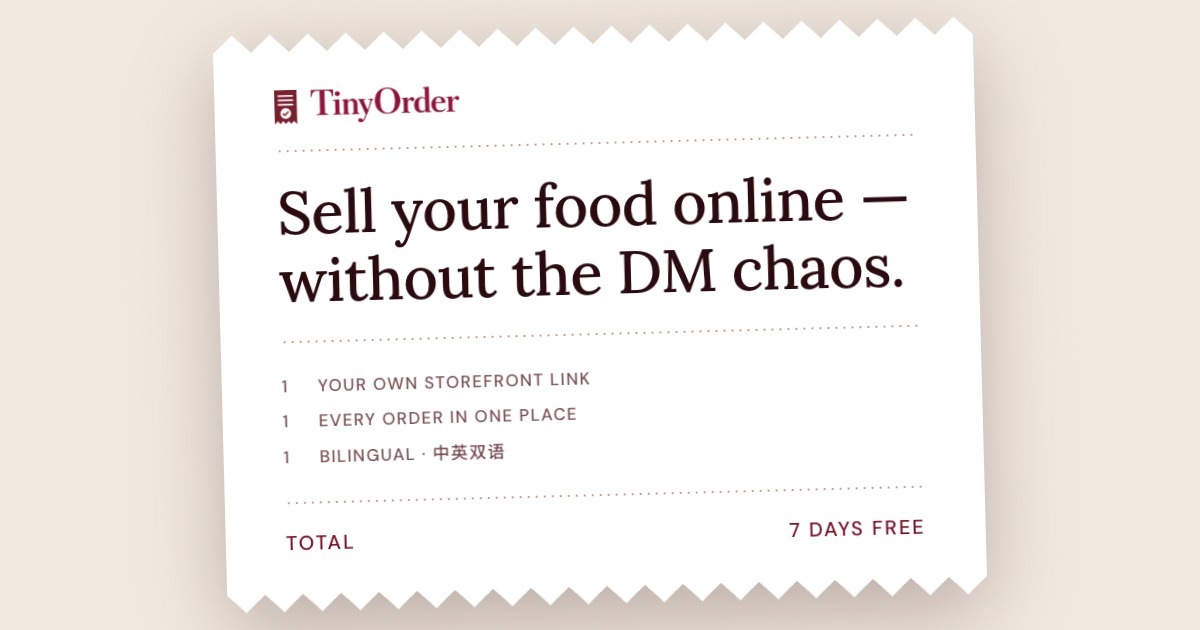
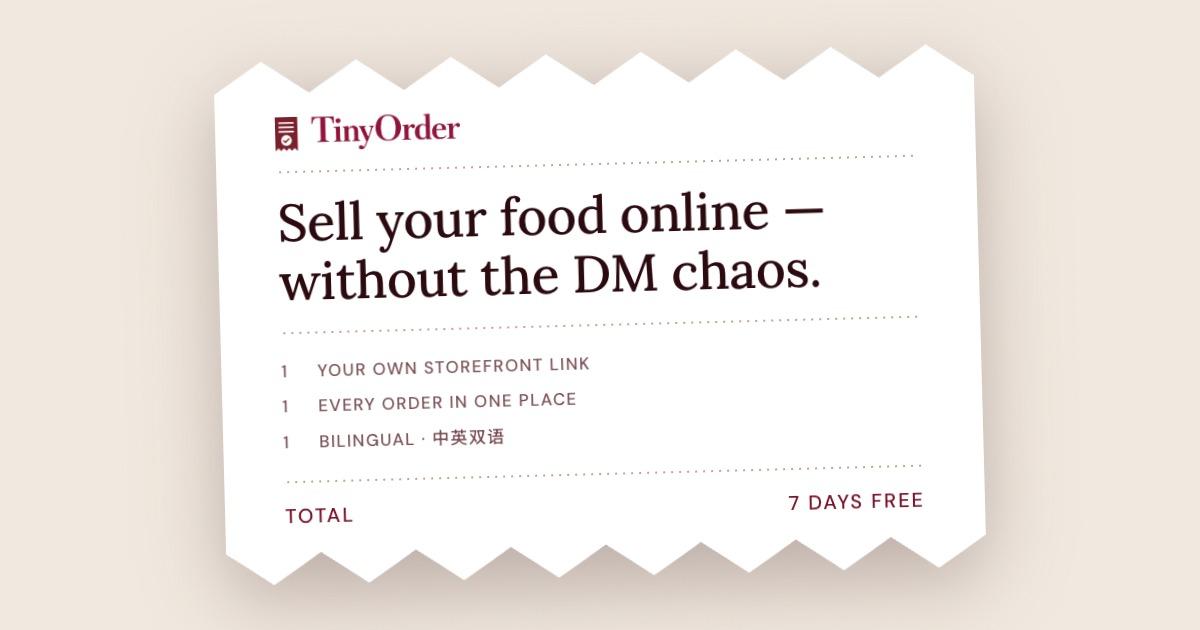
fix(og): remove og:url and tighten the share-card design
og:url was hardcoded to the platform homepage, but this is a single-HTML
SPA — vercel.json rewrites every path to index.html, so that one tag was
served on every route, including /s/:slug merchant storefronts. Facebook
and LinkedIn canonicalise link previews on og:url, so a merchant's shop
link would have deduped and displayed as the platform homepage instead of
their own storefront. Removing it lets scrapers fall back to the fetched
URL, which is correct everywhere.

Also, on the card itself:
- declare og:image:type (image/jpeg)
- cut the perforated edge from 20 shallow teeth (5% pitch, 18px deep) to
  8 deep teeth (12.5% pitch, 32px deep) — the shallow version downscaled
  to ~3px at WhatsApp-thumbnail size and read as JPEG noise, not a tear
- shrink the headline (60px -> 52px) and rule spacing (26px -> 20px) so
  the paper leaves visible cream margin and a perceptible drop-shadow
  inside the 630px frame, instead of nearly filling it top-to-bottom

Corrects two overstated claims in the design spec: the perforation is a
torn-receipt idiom, not a pitch-match to the logo mark's edge, and three
of the five printed lines are condensed from the landing page's copy
rather than verbatim quotes (the "cannot drift from the site" claim did
not hold and is replaced with an explicit re-check note).

Regenerated public/og-cover.jpg (1200x630, 64KB) and applied the same
four fixes to the embedded code blocks in the implementation plan so it
doesn't diverge from the committed files.
[…]

diff --git a/apps/frontend/scripts/og-cover.html b/apps/frontend/scripts/og-cover.html
@@ -58,37 +58,31 @@
       .paper {
         width: 760px;
         background: #FFFFFF;
-        /* 56px vertical, not more. The content stack is ~464px; at 74px
-           padding the paper is ~612px tall, and rotating a 760px-wide box by
-           1.5° adds another ~20px to its bounding height — which does not fit
-           in 630. Step 4 of this task checks for exactly that clipping. */
+        /* 56px vertical, not more. The content stack is ~410px; at 56px
+           padding the paper is ~522px tall, and rotating a 760px-wide box by
+           1.5° adds another ~20px to its bounding height, for ~542px total —
+           well under 630, with headroom left for the 32px-deep perforation
+           teeth below. Step 4 of this task checks for exactly that clipping. */
         padding: 56px 60px;
-        /* Zigzag perforation, top and bottom — the silhouette of the receipt
-           mark in the logo. 20 teeth across 760px = one tooth per 5%; each
-           tooth is 18px deep. The polygon runs clockwise: down the top edge's
-           teeth left-to-right, down the right side, back along the bottom
-           edge's teeth right-to-left, up the left side. */
+        /* Zigzag perforation, top and bottom — a torn-receipt silhouette
+           echoing the logo mark. 8 teeth across 760px = one tooth per
+           12.5%, 32px deep. Fewer, deeper teeth than a finer pitch because
+           the card is consumed at ~200px WhatsApp-thumbnail scale, where a
+           shallow tooth downscales to a few pixels and reads as edge fuzz
+           rather than a tear. The polygon runs clockwise: down the top
+           edge's teeth left-to-right, down the right side, back along the
+           bottom edge's teeth right-to-left, up the left side. */
         clip-path: polygon(
-          0% 18px,   2.5% 0px,   5% 18px,   7.5% 0px,  10% 18px,
-          12.5% 0px, 15% 18px,  17.5% 0px,  20% 18px,  22.5% 0px,
-          25% 18px,  27.5% 0px, 30% 18px,   32.5% 0px, 35% 18px,
-          37.5% 0px, 40% 18px,  42.5% 0px,  45% 18px,  47.5% 0px,
-          50% 18px,  52.5% 0px, 55% 18px,   57.5% 0px, 60% 18px,
-          62.5% 0px, 65% 18px,  67.5% 0px,  70% 18px,  72.5% 0px,
-          75% 18px,  77.5% 0px, 80% 18px,   82.5% 0px, 85% 18px,
-          87.5% 0px, 90% 18px,  92.5% 0px,  95% 18px,  97.5% 0px,
-          100% 18px,
-          100% calc(100% - 18px), 97.5% 100%, 95% calc(100% - 18px),
-          92.5% 100%, 90% calc(100% - 18px), 87.5% 100%, 85% calc(100% - 18px),
-          82.5% 100%, 80% calc(100% - 18px), 77.5% 100%, 75% calc(100% - 18px),
-          72.5% 100%, 70% calc(100% - 18px), 67.5% 100%, 65% calc(100% - 18px),
-          62.5% 100%, 60% calc(100% - 18px), 57.5% 100%, 55% calc(100% - 18px),
-          52.5% 100%, 50% calc(100% - 18px), 47.5% 100%, 45% calc(100% - 18px),
-          42.5% 100%, 40% calc(100% - 18px), 37.5% 100%, 35% calc(100% - 18px),
-          32.5% 100%, 30% calc(100% - 18px), 27.5% 100%, 25% calc(100% - 18px),
-          22.5% 100%, 20% calc(100% - 18px), 17.5% 100%, 15% calc(100% - 18px),
-          12.5% 100%, 10% calc(100% - 18px), 7.5% 100%, 5% calc(100% - 18px),
-          2.5% 100%, 0% calc(100% - 18px)
+          0% 32px,     6.25% 0px,   12.5% 32px,  18.75% 0px,
+          25% 32px,    31.25% 0px,  37.5% 32px,  43.75% 0px,
+          50% 32px,    56.25% 0px,  62.5% 32px,  68.75% 0px,
+          75% 32px,    81.25% 0px,  87.5% 32px,  93.75% 0px,
+          100% 32px,
+          100% calc(100% - 32px), 93.75% 100%, 87.5% calc(100% - 32px),
+          81.25% 100%, 75% calc(100% - 32px), 68.75% 100%, 62.5% calc(100% - 32px),
+          56.25% 100%, 50% calc(100% - 32px), 43.75% 100%, 37.5% calc(100% - 32px),
+          31.25% 100%, 25% calc(100% - 32px), 18.75% 100%, 12.5% calc(100% - 32px),
+          6.25% 100%, 0% calc(100% - 32px)
         );
       }
 
@@ -98,7 +92,7 @@
          weight; radial-gradient gives round perforation dots instead. */
       .rule {
         height: 2px;
-        margin: 26px 0;
+        margin: 20px 0;
         background-image: radial-gradient(
           circle, #C9A090 1px, transparent 1px    /* --color-clay-border */
         );
@@ -109,7 +103,7 @@
       h1 {
         font-family: 'Lora', serif;
         font-weight: 500;
-        font-size: 60px;
+        font-size: 52px;
         line-height: 1.14;
         letter-spacing: -0.01em;
         color: #2B0A10;                    /* --color-ink */

diff --git a/apps/frontend/index.html b/apps/frontend/index.html
@@ -15,11 +15,13 @@
     <title>TinyOrder</title>
     <meta name="description" content="Sell your food online — without the DM chaos. TinyOrder gives home kitchens and small food businesses one branded storefront link and order management, all in one place." />
     <!-- Link previews on Instagram / WhatsApp / Facebook.
-         og:image and og:url must be absolute — most scrapers silently drop
-         relative URLs. The card itself is built by scripts/og-cover.ts. -->
+         og:image must be absolute — most scrapers silently drop relative
+         URLs. No og:url: this is a single-HTML SPA (vercel.json rewrites
+         every path to this file), so a hardcoded canonical URL would be
+         wrong on every route except the homepage — notably /s/:slug shop
+         links. Without the tag, scrapers fall back to the fetched URL. -->
     <meta property="og:type" content="website" />
     <meta property="og:site_name" content="TinyOrder" />
-    <meta property="og:url" content="https://bitetime-order-platform.vercel.app/" />
     <meta property="og:title" content="TinyOrder — Sell your food online" />
     <meta property="og:description" content="One branded storefront link for home kitchens and small food businesses — so every order lands in one place and you look the part." />
     <meta property="og:image" content="https://bitetime-order-platform.vercel.app/og-cover.jpg" />
@@ -27,6 +29,7 @@
          image itself has finished downloading. -->
     <meta property="og:image:width" content="1200" />
     <meta property="og:image:height" content="630" />
+    <meta property="og:image:type" content="image/jpeg" />
     <meta property="og:image:alt" content="A printed receipt reading: Sell your food online — without the DM chaos. One storefront link, every order in one place, bilingual. Total: 7 days free." />
     <meta name="twitter:card" content="summary_large_image" />
     <meta name="twitter:title" content="TinyOrder — Sell your food online" />

diff --git a/docs/superpowers/plans/2026-07-21-og-cover.md b/docs/superpowers/plans/2026-07-21-og-cover.md
@@ -168,37 +168,31 @@ Create `apps/frontend/scripts/og-cover.html`:
       .paper {
         width: 760px;
         background: #FFFFFF;
-        /* 56px vertical, not more. The content stack is ~464px; at 74px
-           padding the paper is ~612px tall, and rotating a 760px-wide box by
-           1.5° adds another ~20px to its bounding height — which does not fit
-           in 630. Step 4 of this task checks for exactly that clipping. */
+        /* 56px vertical, not more. The content stack is ~410px; at 56px
+           padding the paper is ~522px tall, and rotating a 760px-wide box by
+           1.5° adds another ~20px to its bounding height, for ~542px total —
+           well under 630, with headroom left for the 32px-deep perforation
+           teeth below. Step 4 of this task checks for exactly that clipping. */
         padding: 56px 60px;
-        /* Zigzag perforation, top and bottom — the silhouette of the receipt
-           mark in the logo. 20 teeth across 760px = one tooth per 5%; each
-           tooth is 18px deep. The polygon runs clockwise: down the top edge's
-           teeth left-to-right, down the right side, back along the bottom
-           edge's teeth right-to-left, up the left side. */
+        /* Zigzag perforation, top and bottom — a torn-receipt silhouette
+           echoing the logo mark. 8 teeth across 760px = one tooth per
+           12.5%, 32px deep. Fewer, deeper teeth than a finer pitch because
+           the card is consumed at ~200px WhatsApp-thumbnail scale, where a
+           shallow tooth downscales to a few pixels and reads as edge fuzz
+           rather than a tear. The polygon runs clockwise: down the top
+           edge's teeth left-to-right, down the right side, back along the
+           bottom edge's teeth right-to-left, up the left side. */
         clip-path: polygon(
-          0% 18px,   2.5% 0px,   5% 18px,   7.5% 0px,  10% 18px,
-          12.5% 0px, 15% 18px,  17.5% 0px,  20% 18px,  22.5% 0px,
-          25% 18px,  27.5% 0px, 30% 18px,   32.5% 0px, 35% 18px,
-          37.5% 0px, 40% 18px,  42.5% 0px,  45% 18px,  47.5% 0px,
-          50% 18px,  52.5% 0px, 55% 18px,   57.5% 0px, 60% 18px,
-          62.5% 0px, 65% 18px,  67.5% 0px,  70% 18px,  72.5% 0px,
-          75% 18px,  77.5% 0px, 80% 18px,   82.5% 0px, 85% 18px,
-          87.5% 0px, 90% 18px,  92.5% 0px,  95% 18px,  97.5% 0px,
-          100% 18px,
-          100% calc(100% - 18px), 97.5% 100%, 95% calc(100% - 18px),
-          92.5% 100%, 90% calc(100% - 18px), 87.5% 100%, 85% calc(100% - 18px),
-          82.5% 100%, 80% calc(100% - 18px), 77.5% 100%, 75% calc(100% - 18px),
-          72.5% 100%, 70% calc(100% - 18px), 67.5% 100%, 65% calc(100% - 18px),
-          62.5% 100%, 60% calc(100% - 18px), 57.5% 100%, 55% calc(100% - 18px),
-          52.5% 100%, 50% calc(100% - 18px), 47.5% 100%, 45% calc(100% - 18px),
-          42.5% 100%, 40% calc(100% - 18px), 37.5% 100%, 35% calc(100% - 18px),
-          32.5% 100%, 30% calc(100% - 18px), 27.5% 100%, 25% calc(100% - 18px),
-          22.5% 100%, 20% calc(100% - 18px), 17.5% 100%, 15% calc(100% - 18px),
-          12.5% 100%, 10% calc(100% - 18px), 7.5% 100%, 5% calc(100% - 18px),
-          2.5% 100%, 0% calc(100% - 18px)
+          0% 32px,     6.25% 0px,   12.5% 32px,  18.75% 0px,
+          25% 32px,    31.25% 0px,  37.5% 32px,  43.75% 0px,
+          50% 32px,    56.25% 0px,  62.5% 32px,  68.75% 0px,
+          75% 32px,    81.25% 0px,  87.5% 32px,  93.75% 0px,
+          100% 32px,
+          100% calc(100% - 32px), 93.75% 100%, 87.5% calc(100% - 32px),
+          81.25% 100%, 75% calc(100% - 32px), 68.75% 100%, 62.5% calc(100% - 32px),
+          56.25% 100%, 50% calc(100% - 32px), 43.75% 100%, 37.5% calc(100% - 32px),
+          31.25% 100%, 25% calc(100% - 32px), 18.75% 100%, 12.5% calc(100% - 32px),
+          6.25% 100%, 0% calc(100% - 32px)
         );
       }
 
@@ -208,7 +202,7 @@ Create `apps/frontend/scripts/og-cover.html`:
          weight; radial-gradient gives round perforation dots instead. */
       .rule {
         height: 2px;
-        margin: 26px 0;
+        margin: 20px 0;
         background-image: radial-gradient(
           circle, #C9A090 1px, transparent 1px    /* --color-clay-border */
         );
@@ -219,7 +213,7 @@ Create `apps/frontend/scripts/og-cover.html`:
       h1 {
         font-family: 'Lora', serif;
         font-weight: 500;
-        font-size: 60px;
+        font-size: 52px;
         line-height: 1.14;
         letter-spacing: -0.01em;
         color: #2B0A10;                    /* --color-ink */
@@ -584,11 +578,13 @@ with:
 
 ```html
     <!-- Link previews on Instagram / WhatsApp / Facebook.
-         og:image and og:url must be absolute — most scrapers silently drop
-         relative URLs. The card itself is built by scripts/og-cover.ts. -->
+         og:image must be absolute — most scrapers silently drop relative
+         URLs. No og:url: this is a single-HTML SPA (vercel.json rewrites
+         every path to this file), so a hardcoded canonical URL would be
+         wrong on every route except the homepage — notably /s/:slug shop
+         links. Without the tag, scrapers fall back to the fetched URL. -->
     <meta property="og:type" content="website" />
     <meta property="og:site_name" content="TinyOrder" />
-    <meta property="og:url" content="https://bitetime-order-platform.vercel.app/" />
     <meta property="og:title" content="TinyOrder — Sell your food online" />
     <meta property="og:description" content="One branded storefront link for home kitchens and small food businesses — so every order lands in one place and you look the part." />
     <meta property="og:image" content="https://bitetime-order-platform.vercel.app/og-cover.jpg" />
@@ -596,6 +592,7 @@ with:
          image itself has finished downloading. -->
     <meta property="og:image:width" content="1200" />
     <meta property="og:image:height" content="630" />
+    <meta property="og:image:type" content="image/jpeg" />
     <meta property="og:image:alt" content="A printed receipt reading: Sell your food online — without the DM chaos. One storefront link, every order in one place, bilingual. Total: 7 days free." />
     <meta name="twitter:card" content="summary_large_image" />
     <meta name="twitter:title" content="TinyOrder — Sell your food online" />

diff --git a/docs/superpowers/specs/2026-07-21-og-cover-design.md b/docs/superpowers/specs/2026-07-21-og-cover-design.md
@@ -39,9 +39,11 @@ Centred on it, a receipt ≈760px wide, tilted `-1.5°`, with
 not cream — the sheet has to separate from the ground or the tilt reads as an accident.
 
 The receipt's top and bottom edges are zigzag perforations cut with a CSS `clip-path`
-polygon, at the same tooth pitch as the logo mark's torn edge. That silhouette is the
-load-bearing idea: it is the brand mark's own shape, so the card cannot be reproduced
-by anyone who is not TinyOrder.
+polygon — a torn-receipt idiom, not a literal trace of the logo mark's edge (the mark
+has roughly 4 deep teeth and a flat top; the card has 8 on both edges). That
+silhouette is still the load-bearing idea: the receipt form is the brand's own object,
+and the card reads as TinyOrder through the lockup, palette and paper together, not
+through pitch-matching a shape no one would notice at a glance.
 
 The receipt's left edge carries nothing — no icon column, no rail. Print discipline.
 
@@ -57,9 +59,14 @@ The receipt's left edge carries nothing — no icon column, no rail. Print disci
 | rule | dotted | `--color-clay-border` |
 | `TOTAL` … `7 DAYS FREE` | DM Sans 500, 20px, justified to both edges | `--color-oxblood` `#7A1028` |
 
-Every string is lifted verbatim from the live landing page — the `h1`, the three value
-props, and the `7-day free trial — no card required` line under the pricing heading.
-Nothing is invented for the card, so the card cannot drift from the site.
+The headline is lifted verbatim from the live landing page's `h1`. The other three
+lines are condensed from it to receipt length rather than quoted verbatim: the landing
+page's *Simple order management* (`Landing.tsx:246`) and *Bilingual, out of the box*
+(`:250`) become the tighter "Every order in one place" and "Bilingual · 中英双语", and
+its *7-day free trial — no card required* (`:264`) becomes "7 days free". Nothing on
+the card asserts a claim the landing page doesn't make, but the wording is not pinned
+to it — a copy edit on either side will not be caught automatically, so re-check this
+card by eye whenever the landing page's claims change.
 
 `中英双语` on the third line makes the bilingual claim demonstrate itself rather than
 assert itself.